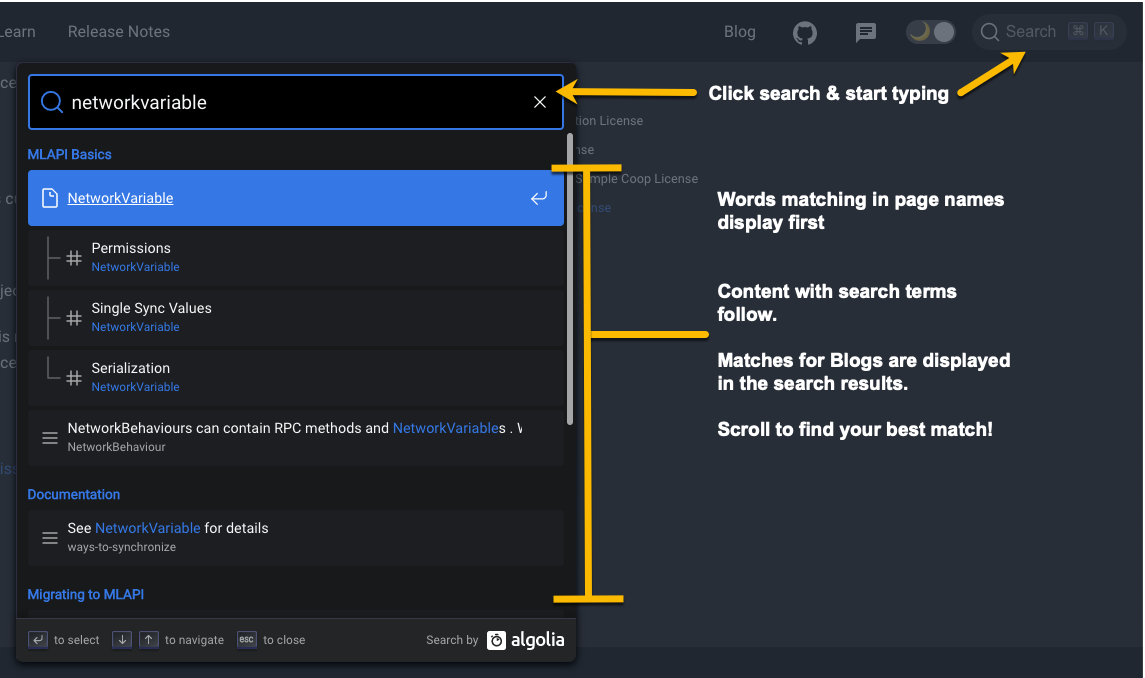
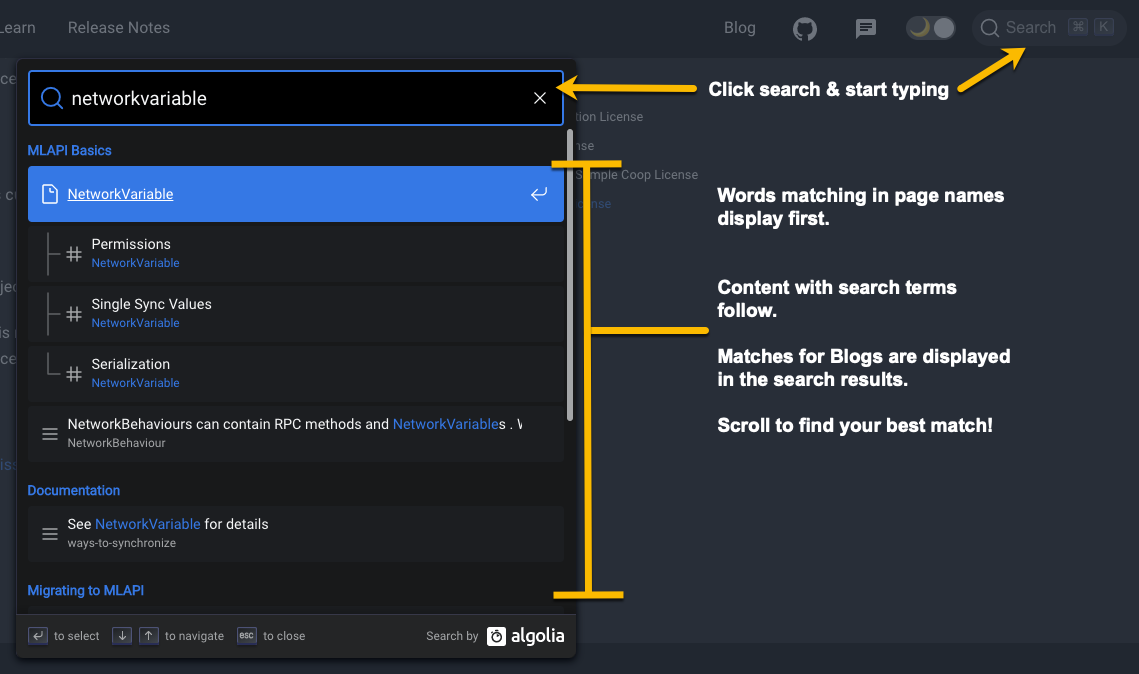
adding blog

diff --git a/docusaurus.config.js b/docusaurus.config.js
@@ -14,10 +14,10 @@ module.exports = {
     announcementBar: {
       id: 'prerelease', // Any value that will identify this message.
       content:
-        'This documentation site is in-progress for the forthcoming release of Unity MLAPI. Content and features subject to change.',
+        '⭐ If you like our documentation, give it a star on <a target="_blank" rel="noopener noreferrer" href="https://github.com/Unity-Technologies/com.unity.multiplayer.docs">GitHub</a> and <a target="_blank" rel="noopener noreferrer" href="https://github.com/Unity-Technologies/com.unity.multiplayer.docs/wiki">contribute</a>! ⭐',
       backgroundColor: '#3578e5', // Defaults to `#fff`.
       textColor: '#ffffff', // Defaults to `#000`.
-      isCloseable: false, // Defaults to `true`.
+      isCloseable: true, // Defaults to `true`.
     },
 
     algolia: {
@@ -131,7 +131,7 @@ module.exports = {
             },
             { 
               label: 'Discord',
-              href: 'http://discord.mlapi.network/',
+              href: 'https://discord.gg/buMxnnPvTb',
             },
             {
               label: 'Unity Multiplayer Forum',
@@ -211,7 +211,7 @@ module.exports = {
             },
             {
               label: 'Discord',
-              href: 'http://discord.mlapi.network/',
+              href: 'https://discord.gg/buMxnnPvTb',
             },
           ],
         },

diff --git a/blog/2021-03-23-release.md b/blog/2021-03-23-release.md
@@ -1,0 +1,40 @@
+---
+title: Multiplayer Networking docs are live!
+author: Lori Krell
+author_title: Unity, Senior Tech Writer
+tags: [releases]
+description: Welcome to the new release of the Unity Multiplayer documentation site and content. Learn more about Unity MLAPI, Transport, releases, and more. Contribute to help support all developers and designers of multiplayer games.
+hide_table_of_contents: false
+---
+
+The Unity Multiplayer Networking documentation site is live with updated and new content, tutorials, glossary, troubleshooting, API reference, and much more.
+
+## Everything is a click away
+
+The new doc site provides top navigation for immediate content, quick links for community information and contacts, a search, and dark/light mode! Each page includes a side navigation for content in the section and on the page. Charts and workflows use Mermaid. And we support tabbed content, videos, animations, and so much more.
+
+Take us on the go! The site is fully responsive for desktops and devices, with new features being added as needed.
+
+![Site tour](/img/blog/site-tour1.png)
+
+## Learn about the latest news
+
+Monthly we will provide blog posts on releases, news, contributions, state of the project, Boss Room, and much more. We may even host tech papers and interviews with some of our best contributors and Unity staff. 
+
+## Learn about the latest releases
+
+Find release notes and a documentation changelog through the [Release Notes](/docs/release-notes/introduction) section. All release notes include new and updated features, fixes, known issues, breaking changes, and upgrade information.
+
+## Search with Algolia
+
+Simply click in the search bar and start typing. Find content by page name or located text. Algolia Open Source supports our site with helpful search indexing and powerful analytics. 
+
+![Search](/img/blog/blog-search.png)
+
+## Contribute and help build content
+
+As an open source product and documentation site, we welcome your ideas for features, feedback on content, and contributions. We will highlight your support in this blog, in social media, and highlight your name for significant additions.
+
+The [Contribution Guide](https://github.com/Unity-Technologies/com.unity.multiplayer.docs/wiki) helps you get started.
+
+![Doc Process](/img/blog/contribute-pass.png)

diff --git a/docs/release-notes/index.md b/docs/release-notes/index.md
@@ -14,6 +14,15 @@ Release notes will be available on release day.
 | -- | -- |
 | [v0.1.0](multiplayer/release-0-1-0.md) | Experimental | March 23, 2021 | 2019.4 and later |
 
+:::unity About Releases
+For Unity experimental releases:
+
+* Expect breaking API changes - using this early has risks! See release notes for extensive information and links to additional content.
+* Expect no SLA on timeline to ship patches and fixes to releases, as we are still establishing our test and release cadence.
+* Expect these releases to move towards a fuller Release.
+* Expect us to answer questions for early adopters on [Discord](https://discord.gg/buMxnnPvTb) and [Forums](https://forum.unity.com/forums/multiplayer.26/). We welcome all feedback and issues logged! 
+:::
+
 ## Documentation
 
 See the [Documentation changelog](doc-changelog.md) for major updates to content and site development.

diff --git a/docs/getting-started/index.md b/docs/getting-started/index.md
@@ -13,15 +13,9 @@ Unity MLAPI is a high level networking library built for the Unity game engine t
 
 </div>
 
-:::note
-Unity MLAPI will be an experimental release, open source, and available soon from Unity. We will post updates on this site, including guides, API references, release notes, and tutorials using Boss Room samples.
-:::
-
 :::unity Content Licenses
 All MLAPI code and documentation is covered by MIT license. See [Licenses](../license.md) for more information. Sample code may include links to GitHub code repositories.
 :::
-
-
 
 <!--
 ## Features
